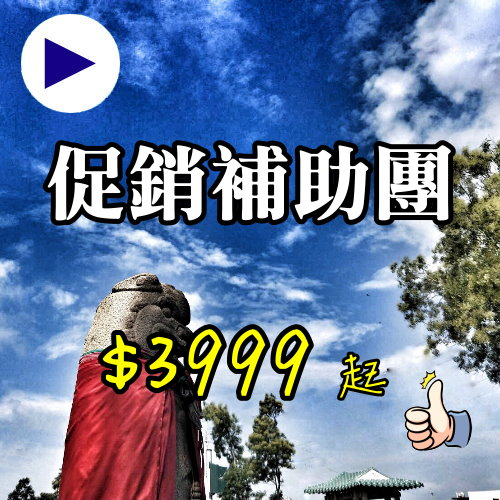
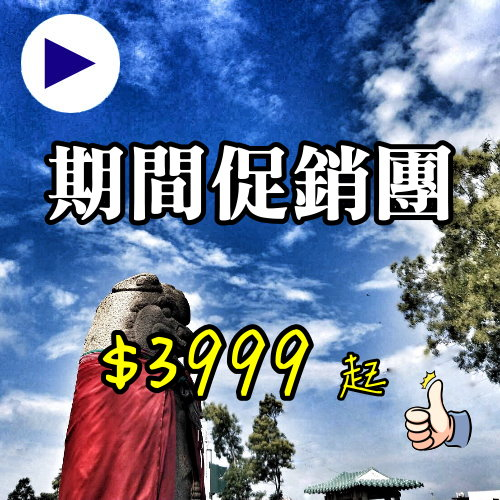
updated

Changed region(s): [[0.06, 0.27, 0.75, 0.45]]

diff --git a/index/domestic_island/kinmen/tafeng_kinmen.html b/index/domestic_island/kinmen/tafeng_kinmen.html
@@ -180,8 +180,8 @@ $(".include").each(function(){
                 },
                 {
                     imageUrl:"kinmen8.jpg",
-                    location:"【台北出發】金門促銷補助三日團體旅遊",
-					detail:"最最最便宜\n12-3月最新專案$3,999起",
+                    location:"期間促銷團體旅遊",
+					detail:"最最最便宜\n北中南出發！\n1-3月最新專案$3,999起",
                     link:'http://www.tafeng66.com.tw/webobj/travelteam/showselect.asp?Product_id=41989&promo=m&depID=215&rp_dt_id='
                 },{
 					imageUrl:"kinmen2.jpg",
